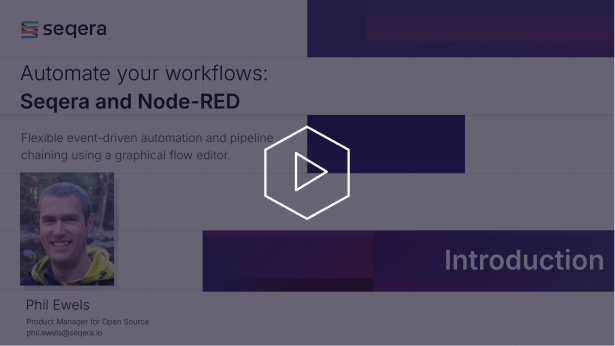
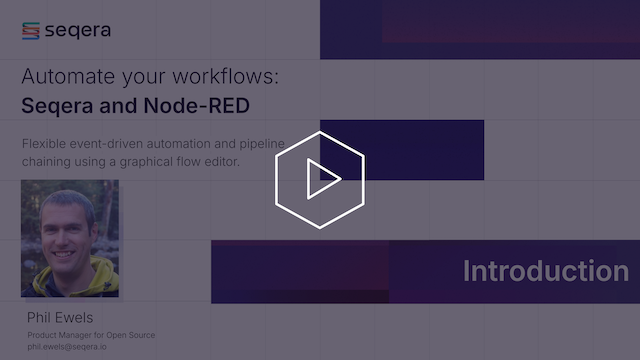
Better quality image, centre align

diff --git a/README.md b/README.md
@@ -60,7 +60,11 @@ See the [example docs](https://seqeralabs.github.io/node-red-seqera/examples/) f
 
 Prefer video to text? Check out the [YouTube Playlist of tutorial videos](https://youtube.com/playlist?list=PL_mgzF8qwHud1pOSurWKO8eDJIqE-_NHi&si=StMNRsyMa9JOjBa8), taking you through installation, Node-RED fundamentals and the different examples!
 
+<div align="center">
+
 [![YouTube tutorial playlist](docs/img/youtube-tutorials-introduction.png)](https://youtube.com/playlist?list=PL_mgzF8qwHud1pOSurWKO8eDJIqE-_NHi&si=StMNRsyMa9JOjBa8)
+
+</div>
 
 # Quick start
 
